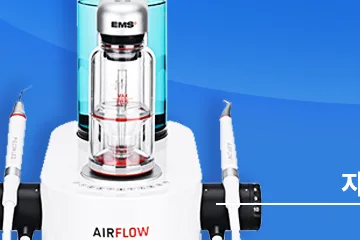
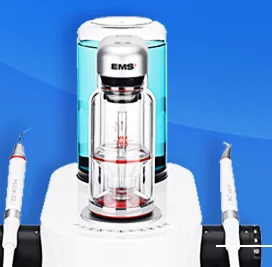
옛 배너에서 잘라 온 사진 다시 자르기 + 첫 화면 문구·카드 4장
오너: 사진이 이상하게 들어간 곳 고치고, 히어로에 문구 넣고 카드 4개도 괜찮겠다.

사진 — 흰 여백·남색 테두리·잘린 글자가 같이 들어와 있던 7장을 사진 덩어리만 남기고 다시 잘랐다.
  라미네이트 · 올세라믹 · 지르코니아 · 치아미백 · 풀아치 모형 · 에어플로우 장비 · 턱관절 두개골
  (scripts/refit-crops.mjs — 배너에서 잉크가 찬 칸을 찾아 자동으로, 바탕이 흰 사진만 손으로 지정)

문구 — 첫 화면에 옛 홈페이지 배너의 윗줄·설명을 살려 넣었다(15쪽).
  ⚠ 통증없는 · 아프지 않은 · 감쪽같이 같은 단정 표현은 쓰지 않고 사실만 남겼다(의료광고)

카드 — 첫 화면 아래 카드가 3장 → 문서에 항목이 넉 장이면 4장까지, 넓은 화면은 4열

diff --git a/lib/heroCollage.ts b/lib/heroCollage.ts
@@ -10,6 +10,10 @@ import type { CollageCard, CollageItem } from '@/components/HeroCollage';
  */
 export interface HeroCollageSpec {
   lines: [string, string?];
+  /** 제목 위 작은 줄 — 옛 홈페이지 배너의 윗줄 문구를 살리는 자리. 없으면 문서의 eyebrow */
+  kicker?: string;
+  /** 첫 화면 설명 한 줄 — 없으면 문서 요약 앞부분. 제목이 짧은 쪽이 허전하지 않게 옛 배너 문구를 쓴다 */
+  lead?: string;
   cards: [CollageCard, CollageCard, CollageCard];
   items?: CollageItem[];
 }
@@ -17,6 +21,8 @@ export interface HeroCollageSpec {
 export const HERO_COLLAGE: Record<string, HeroCollageSpec> = {
   '/treatment/implant': {
     lines: ['광화문 선치과', '{디지털} 임플란트'],
+    kicker: '3D 로 계획하고 가이드로 식립합니다',
+    lead: '3D CT 와 구강스캐너로 뼈·신경 위치를 확인하고, 모의수술로 정한 자리에 가이드를 대고 식립합니다.',
     cards: [
       { fig: { key: 'scene/surgery', alt: '수술 가운과 확대경을 착용하고 임플란트 수술 중인 광화문선치과 원장' }, shape: 'portrait' },
       { fig: { key: 'orig/implant-hero', alt: '확대경을 쓴 의료진이 파노라마 모니터 앞에서 임플란트 수술을 하는 장면' }, shape: 'wide' },
@@ -33,6 +39,8 @@ export const HERO_COLLAGE: Record<string, HeroCollageSpec> = {
   },
   '/treatment/implant/full-arch': {
     lines: ['풀아치', '{임플란트}'],
+    kicker: '최소식립으로 무치악 해결',
+    lead: '4~6개의 임플란트로 위·아래 전체 치아의 기능을 회복하는 방법입니다. 남은 뼈 상태에 따라 계획이 달라집니다.',
     cards: [
       { fig: { key: 'orig/implant-fa-surgery', alt: '수술실에서 임플란트 수술 중인 의료진' }, shape: 'portrait' },
       { fig: { key: 'orig/implant-fa-fixed', alt: '임플란트 여섯 개로 고정한 전악 보철 렌더' }, shape: 'wide' },
@@ -73,6 +81,8 @@ export const HERO_COLLAGE: Record<string, HeroCollageSpec> = {
   },
   '/treatment/tmj': {
     lines: ['턱관절', '{치료}'],
+    kicker: '턱관절이 아픈 이유부터',
+    lead: '턱에서 소리가 나고 아픈 이유를 검사로 먼저 확인하고, 찾은 원인에 맞춰 단계적으로 치료합니다.',
     cards: [
       { fig: { key: 'orig/tmj-hero', alt: '확대경을 쓰고 환자를 진료하는 원장' }, shape: 'portrait' },
       { fig: { key: 'orig/misc-tmj-skull', alt: '두개골 모형의 턱관절을 펜으로 가리키는 모습' }, shape: 'wide' },
@@ -97,6 +107,8 @@ export const HERO_COLLAGE: Record<string, HeroCollageSpec> = {
   },
   '/treatment/aesthetic': {
     lines: ['{심미치료}'],
+    kicker: '치아 모양 · 색 · 배열을 함께 봅니다',
+    lead: '라미네이트·올세라믹·지르코니아 심미보철과 전문가 치아미백으로 앞니의 인상을 다듬습니다.',
     cards: [
       { fig: { key: 'orig/misc-whitening-model', alt: '하얀 치아를 드러내며 웃는 여성 모델' }, shape: 'portrait' },
       { fig: { key: 'orig/misc-veneer-teeth', alt: '라미네이트를 붙이는 앞니 일러스트' }, shape: 'wide' },
@@ -105,6 +117,8 @@ export const HERO_COLLAGE: Record<string, HeroCollageSpec> = {
   },
   '/treatment/aesthetic/prosthetics': {
     lines: ['{심미보철}'],
+    kicker: '내 치아 상태에 따른 심미보철',
+    lead: '손톱같이 얇은 라미네이트부터 치아 전체를 덮는 올세라믹·지르코니아까지, 남은 치아 구조에 맞는 방법을 고릅니다.',
     cards: [
       { fig: { key: 'aesthetic/zirconia', alt: '지르코니아 크라운' }, shape: 'portrait' },
       { fig: { key: 'aesthetic/laminate', alt: '라미네이트' }, shape: 'wide' },
@@ -113,6 +127,8 @@ export const HERO_COLLAGE: Record<string, HeroCollageSpec> = {
   },
   '/treatment/aesthetic/whitening': {
     lines: ['{치아미백}'],
+    kicker: '전문가 치아미백',
+    lead: '치아 표면에 전문가용 미백제를 바르고 광선으로 활성화해 변색된 치아 색을 밝히는 진료입니다.',
     cards: [
       { fig: { key: 'orig/misc-whitening-model', alt: '하얀 치아를 드러내며 웃는 여성 모델' }, shape: 'portrait' },
       { fig: { key: 'aesthetic/whitening', alt: '전문가 치아미백' }, shape: 'wide' },
@@ -121,6 +137,8 @@ export const HERO_COLLAGE: Record<string, HeroCollageSpec> = {
   },
   '/treatment/insurance': {
     lines: ['보험 틀니 &', '{임플란트}'],
+    kicker: '만 65세 이상 건강보험 급여',
+    lead: '전체틀니·부분틀니와 임플란트 2개까지 건강보험이 적용됩니다. 본인 부담금은 30% 입니다.',
     cards: [
       { fig: { key: 'orig/denture-hero', alt: '확대경을 쓴 원장이 초록 드레이프를 덮은 환자를 진료하는 모습' }, shape: 'portrait' },
       { fig: { key: 'ai/insurance-denture', alt: '부분 틀니를 두 손으로 살펴보는 어르신의 손' }, shape: 'wide' },
@@ -129,6 +147,8 @@ export const HERO_COLLAGE: Record<string, HeroCollageSpec> = {
   },
   '/treatment/insurance/denture': {
     lines: ['{보험틀니}'],
+    kicker: '만 65세 이상 건강보험 급여',
+    lead: '치아가 전혀 없으면 전체틀니, 일부 남아 있으면 부분틀니 — 둘 다 건강보험이 적용됩니다.',
     cards: [
       { fig: { key: 'orig/denture-hero', alt: '확대경을 쓴 원장이 초록 드레이프를 덮은 환자를 진료하는 모습' }, shape: 'portrait' },
       { fig: { key: 'ai/insurance-denture', alt: '부분 틀니를 두 손으로 살펴보는 어르신의 손' }, shape: 'wide' },
@@ -137,6 +157,8 @@ export const HERO_COLLAGE: Record<string, HeroCollageSpec> = {
   },
   '/treatment/insurance/implant': {
     lines: ['보험', '{임플란트}'],
+    kicker: '1인당 평생 2개까지',
+    lead: '만 65세 이상이면서 치아가 일부라도 남아 있으면 임플란트 2개까지 건강보험이 적용됩니다.',
     cards: [
       { fig: { key: 'orig/denture-hero', alt: '확대경을 쓴 원장이 초록 드레이프를 덮은 환자를 진료하는 모습' }, shape: 'portrait' },
       { fig: { key: 'orig/implant-fa-denture', alt: '전악 임플란트 보철물과 분홍 틀니' }, shape: 'wide' },
@@ -145,6 +167,8 @@ export const HERO_COLLAGE: Record<string, HeroCollageSpec> = {
   },
   '/treatment/wisdom-tooth': {
     lines: ['매복사랑니', '{발치}'],
+    kicker: '3D CT 로 보고 빼는 매복사랑니',
+    lead: '잇몸 안에 묻혀 있거나 신경에 가까운 사랑니를 3D CT 로 확인한 뒤, 신경과 옆 치아를 건드리지 않는 순서로 빼냅니다.',
     cards: [
       { fig: { key: 'orig/wisdom-doctor', alt: '확대경을 쓰고 사랑니를 발치하는 원장' }, shape: 'portrait' },
       { fig: { key: 'orig/wisdom-ct-screen', alt: '3D CT 판독 화면 — 사랑니와 하치조신경 위치 확인' }, shape: 'wide' },
@@ -153,6 +177,8 @@ export const HERO_COLLAGE: Record<string, HeroCollageSpec> = {
   },
   '/treatment/natural-tooth': {
     lines: ['자연치아', '{살리기}'],
+    kicker: '뺄지 살릴지 다시 봅니다',
+    lead: 'MTA 신경치료와 확대경 정밀 진료로, 뽑기 전에 남길 수 있는지부터 확인합니다.',
     cards: [
       { fig: { key: 'orig/mta-hero', alt: '확대경을 쓰고 MTA 신경치료를 하는 원장' }, shape: 'portrait' },
       { fig: { key: 'orig/endo-hero', alt: '엔도소닉 초음파 세척기로 근관을 세척하는 진료 장면' }, shape: 'wide' },
@@ -177,6 +203,8 @@ export const HERO_COLLAGE: Record<string, HeroCollageSpec> = {
   },
   '/treatment/painless': {
     lines: ['무통 & 저자극', '{시스템}'],
+    kicker: '통증을 줄인 편안한 진료',
+    lead: '무통마취기와 저자극 스케일러, 수면치료로 진료 중 느끼는 불편함을 줄입니다.',
     cards: [
       { fig: { key: 'orig/pain-hero', alt: '파노라마 모니터 앞에서 무통마취기(NO PAIN III)로 마취하는 원장' }, shape: 'portrait' },
       { fig: { key: 'equip/painless-set', alt: '무통 & 저자극 시스템 장비' }, shape: 'wide' },
@@ -185,6 +213,8 @@ export const HERO_COLLAGE: Record<string, HeroCollageSpec> = {
   },
   '/treatment/painless/anesthesia': {
     lines: ['무통마취 ·', '{도포 & 가글마취}'],
+    kicker: '컴퓨터 자동 마취 NO-PAIN III',
+    lead: '일정한 속도와 압력으로 마취액을 넣고 극세사 바늘을 써서 마취 주사의 통증을 줄입니다.',
     cards: [
       { fig: { key: 'orig/pain-hero', alt: '파노라마 모니터 앞에서 무통마취기(NO PAIN III)로 마취하는 원장' }, shape: 'portrait' },
       { fig: { key: 'orig/add-lidoca-gel', alt: '잇몸 도포마취제 리도카겔 상자·통과 딸기' }, shape: 'wide' },
@@ -193,6 +223,8 @@ export const HERO_COLLAGE: Record<string, HeroCollageSpec> = {
   },
   '/treatment/painless/sedation': {
     lines: ['{수면치료}', '(의식하 진정요법)'],
+    kicker: '의식하 진정요법',
+    lead: '치과가 무섭거나 오래 걸리는 수술이라면, 진정제로 긴장을 낮춘 상태에서 진료합니다.',
     cards: [
       { fig: { key: 'orig/sleep-hero', alt: '눈을 감고 편안하게 진료받는 여성 환자' }, shape: 'portrait' },
       { fig: { key: 'sun/consult-monitor', alt: '모니터로 촬영 사진을 보며 환자에게 설명하는 원장' }, shape: 'wide' },
@@ -201,6 +233,8 @@ export const HERO_COLLAGE: Record<string, HeroCollageSpec> = {
   },
   '/treatment/painless/airflow': {
     lines: ['{에어 플로우}', '(저자극 스케일링 · GBT)'],
+    kicker: '에어플로우 · GBT 스케일링',
+    lead: '고운 파우더와 물을 뿌려 치석과 바이오필름을 씻어 내, 긁는 느낌과 시린 자극을 줄입니다.',
     cards: [
       { fig: { key: 'orig/airflow-device', alt: 'EMS 에어플로우 프로필락시스 마스터 장비' }, shape: 'portrait' },
       { fig: { key: 'equip/airflow', alt: 'EMS 에어플로우 장비' }, shape: 'wide' },

diff --git a/components/DocPage.tsx b/components/DocPage.tsx
@@ -83,7 +83,7 @@ export function DocPage({ doc }: { doc: Doc }) {
     .slice(0, 2)
     .reduce<string>((acc, s) => (acc && acc.length + s.length > 120 ? acc : acc ? `${acc} ${s}` : s), '');
   const firstPoints = doc.blocks.find((b): b is Extract<Block, { type: 'points' }> => b.type === 'points');
-  const collageItems: CollageItem[] = collage.items ?? (firstPoints ? firstPoints.items.slice(0, 3).map((it) => ({ title: it.title, desc: it.desc ?? '' })) : [{ title: doc.title, desc: shortSummary(doc.summary) }]);
+  const collageItems: CollageItem[] = collage.items ?? (firstPoints ? firstPoints.items.slice(0, 4).map((it) => ({ title: it.title, desc: it.desc ?? '' })) : [{ title: doc.title, desc: shortSummary(doc.summary) }]);
 
   const schema: unknown[] = [
     breadcrumbSchema(trail),
@@ -119,10 +119,10 @@ export function DocPage({ doc }: { doc: Doc }) {
         {/* 첫 화면 — 콜라주(components/HeroCollage): 큰 제목 두 줄 + 옛 홈페이지 사진 세 장 + 유리 카드 세 장. 표는 lib/heroCollage.ts */}
         <HeroCollage
           trail={trail}
-          eyebrow={doc.eyebrow}
+          eyebrow={collage.kicker ?? doc.eyebrow}
           lines={collageLines}
           long={collageLong}
-          lead={heroLead}
+          lead={collage.lead ?? heroLead}
           bg={hero && heroSize ? hero.key : bandBg}
           bgSoft={!!heroSize && heroSize.w < 900}
           cards={collage.cards}

diff --git a/components/HeroCollage.tsx b/components/HeroCollage.tsx
@@ -81,11 +81,11 @@ export function HeroCollage({
               (옛 홈페이지에서 긁어 온 제품·모델 조각이 잘리거나 어색했다. 되살리려면 git 이력 참조) */}
 
           {/* 유리 카드 세 장 — 왼쪽은 왼쪽에서, 가운데는 아래에서, 오른쪽은 오른쪽에서 튀어오른다 */}
-          <ol className="relative z-20 mt-10 grid gap-4 sm:grid-cols-3 lg:mt-8 lg:gap-5">
-            {items.slice(0, 3).map((it, i) => (
+          <ol className={`relative z-20 mt-10 grid gap-4 lg:mt-8 lg:gap-5 ${items.length >= 4 ? 'sm:grid-cols-2 lg:grid-cols-4' : 'sm:grid-cols-3'}`}>
+            {items.slice(0, 4).map((it, i) => (
               <li
                 key={it.title}
-                className={`hero-card ${['hero-card-l', 'hero-card-c', 'hero-card-r'][i]} rounded-2xl border border-white/12 bg-white/8 p-5 backdrop-blur-md shadow-[var(--shadow-lift)] lg:p-6`}
+                className={`hero-card ${['hero-card-l', 'hero-card-c', 'hero-card-r', 'hero-card-c'][i]} rounded-2xl border border-white/12 bg-white/8 p-5 backdrop-blur-md shadow-[var(--shadow-lift)] lg:p-6`}
                 style={{ animationDelay: `${1300 + i * 240}ms` }}
               >
                 <span className="num-xl">{String(i + 1).padStart(2, '0')}</span>
